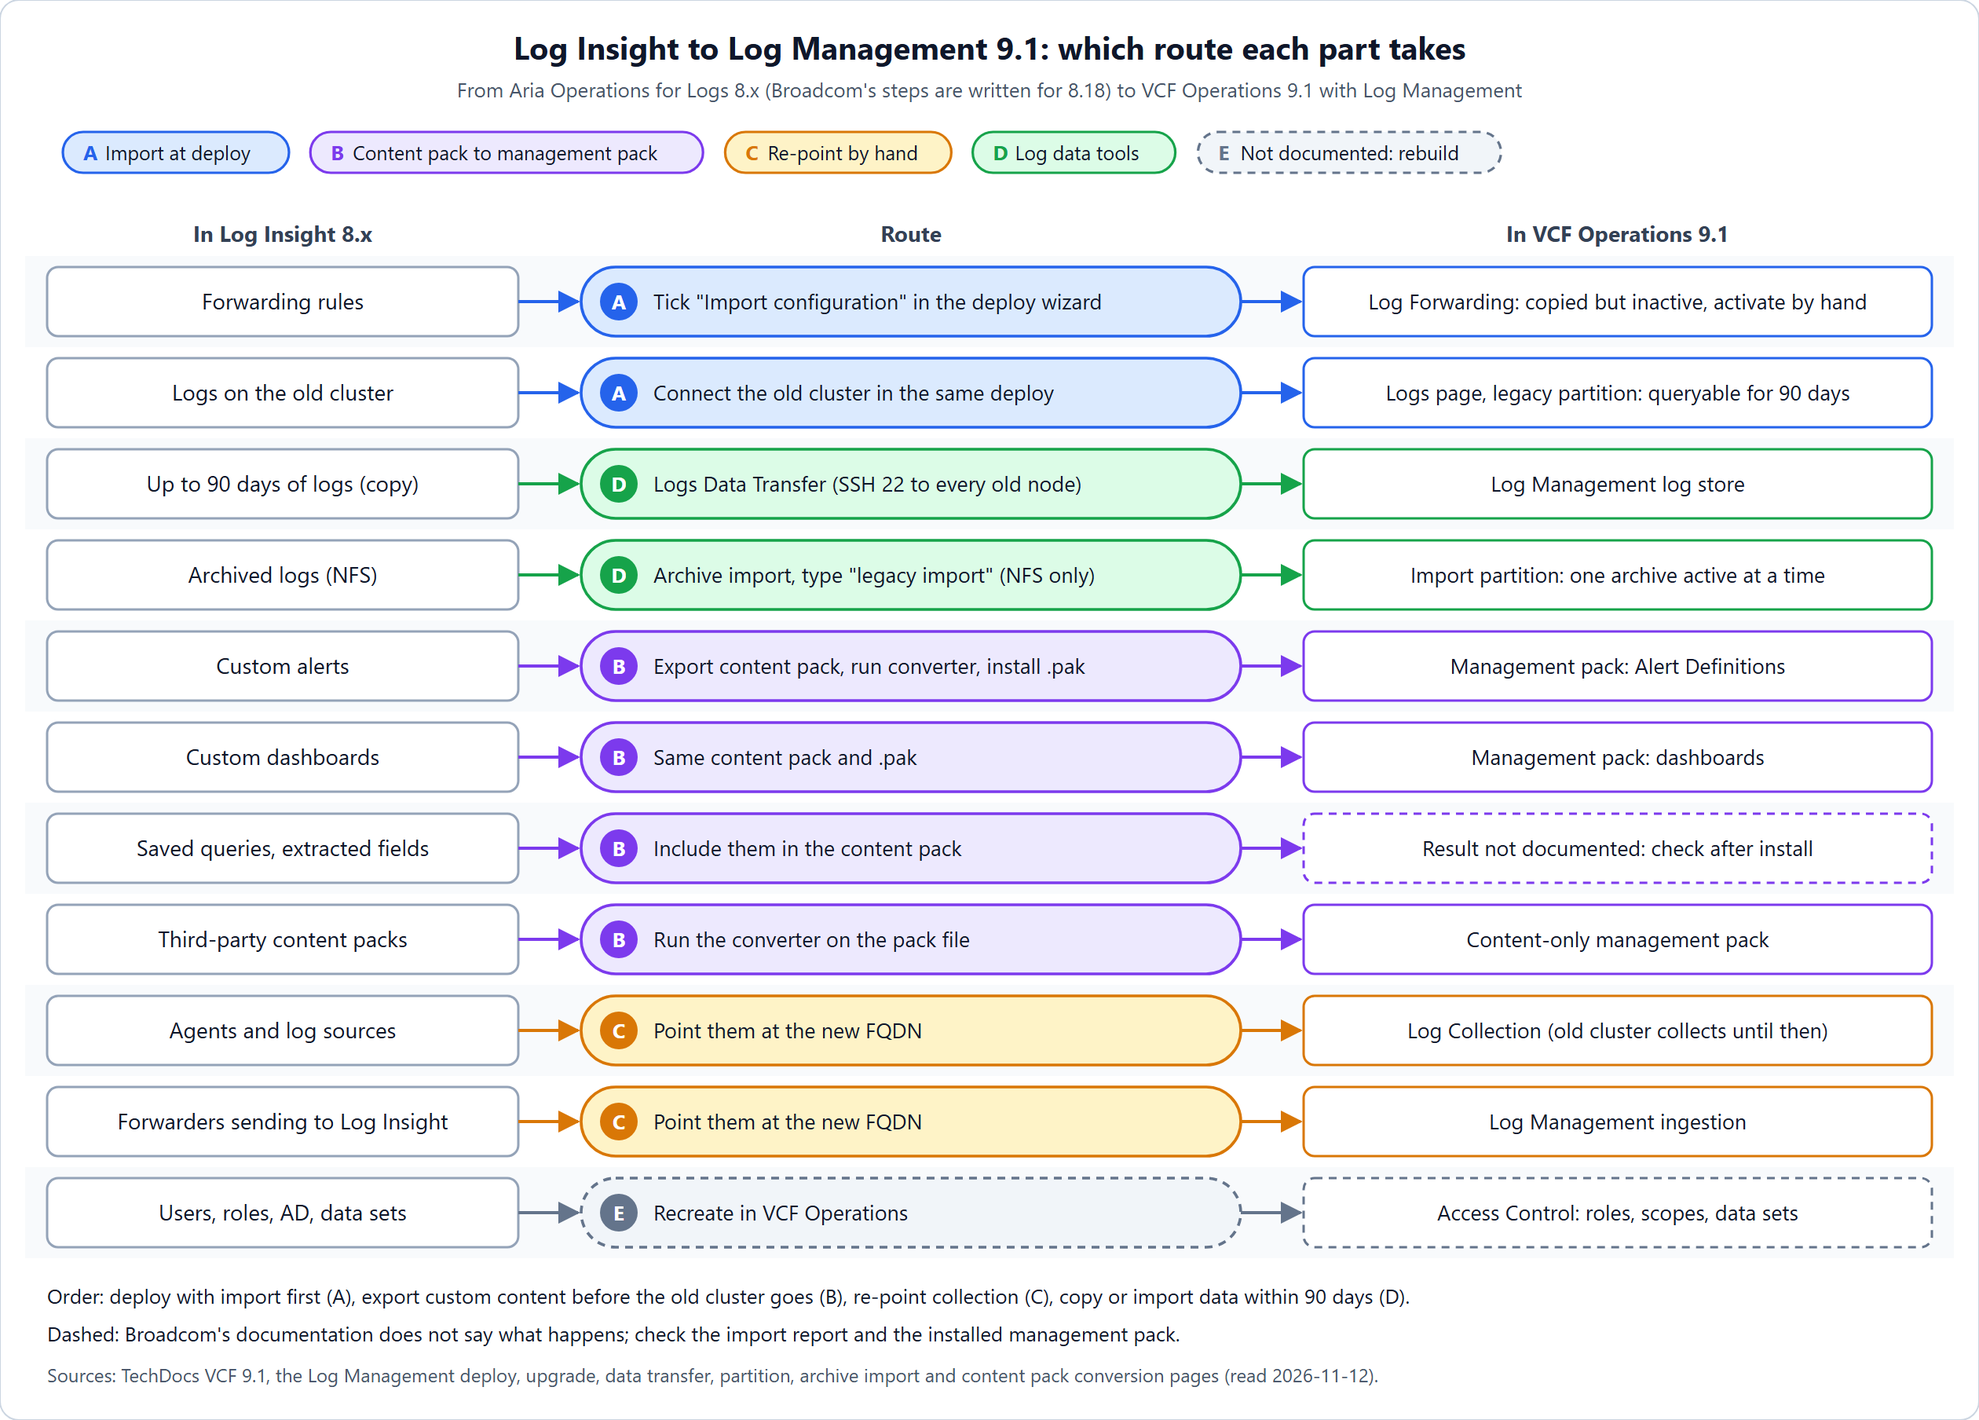
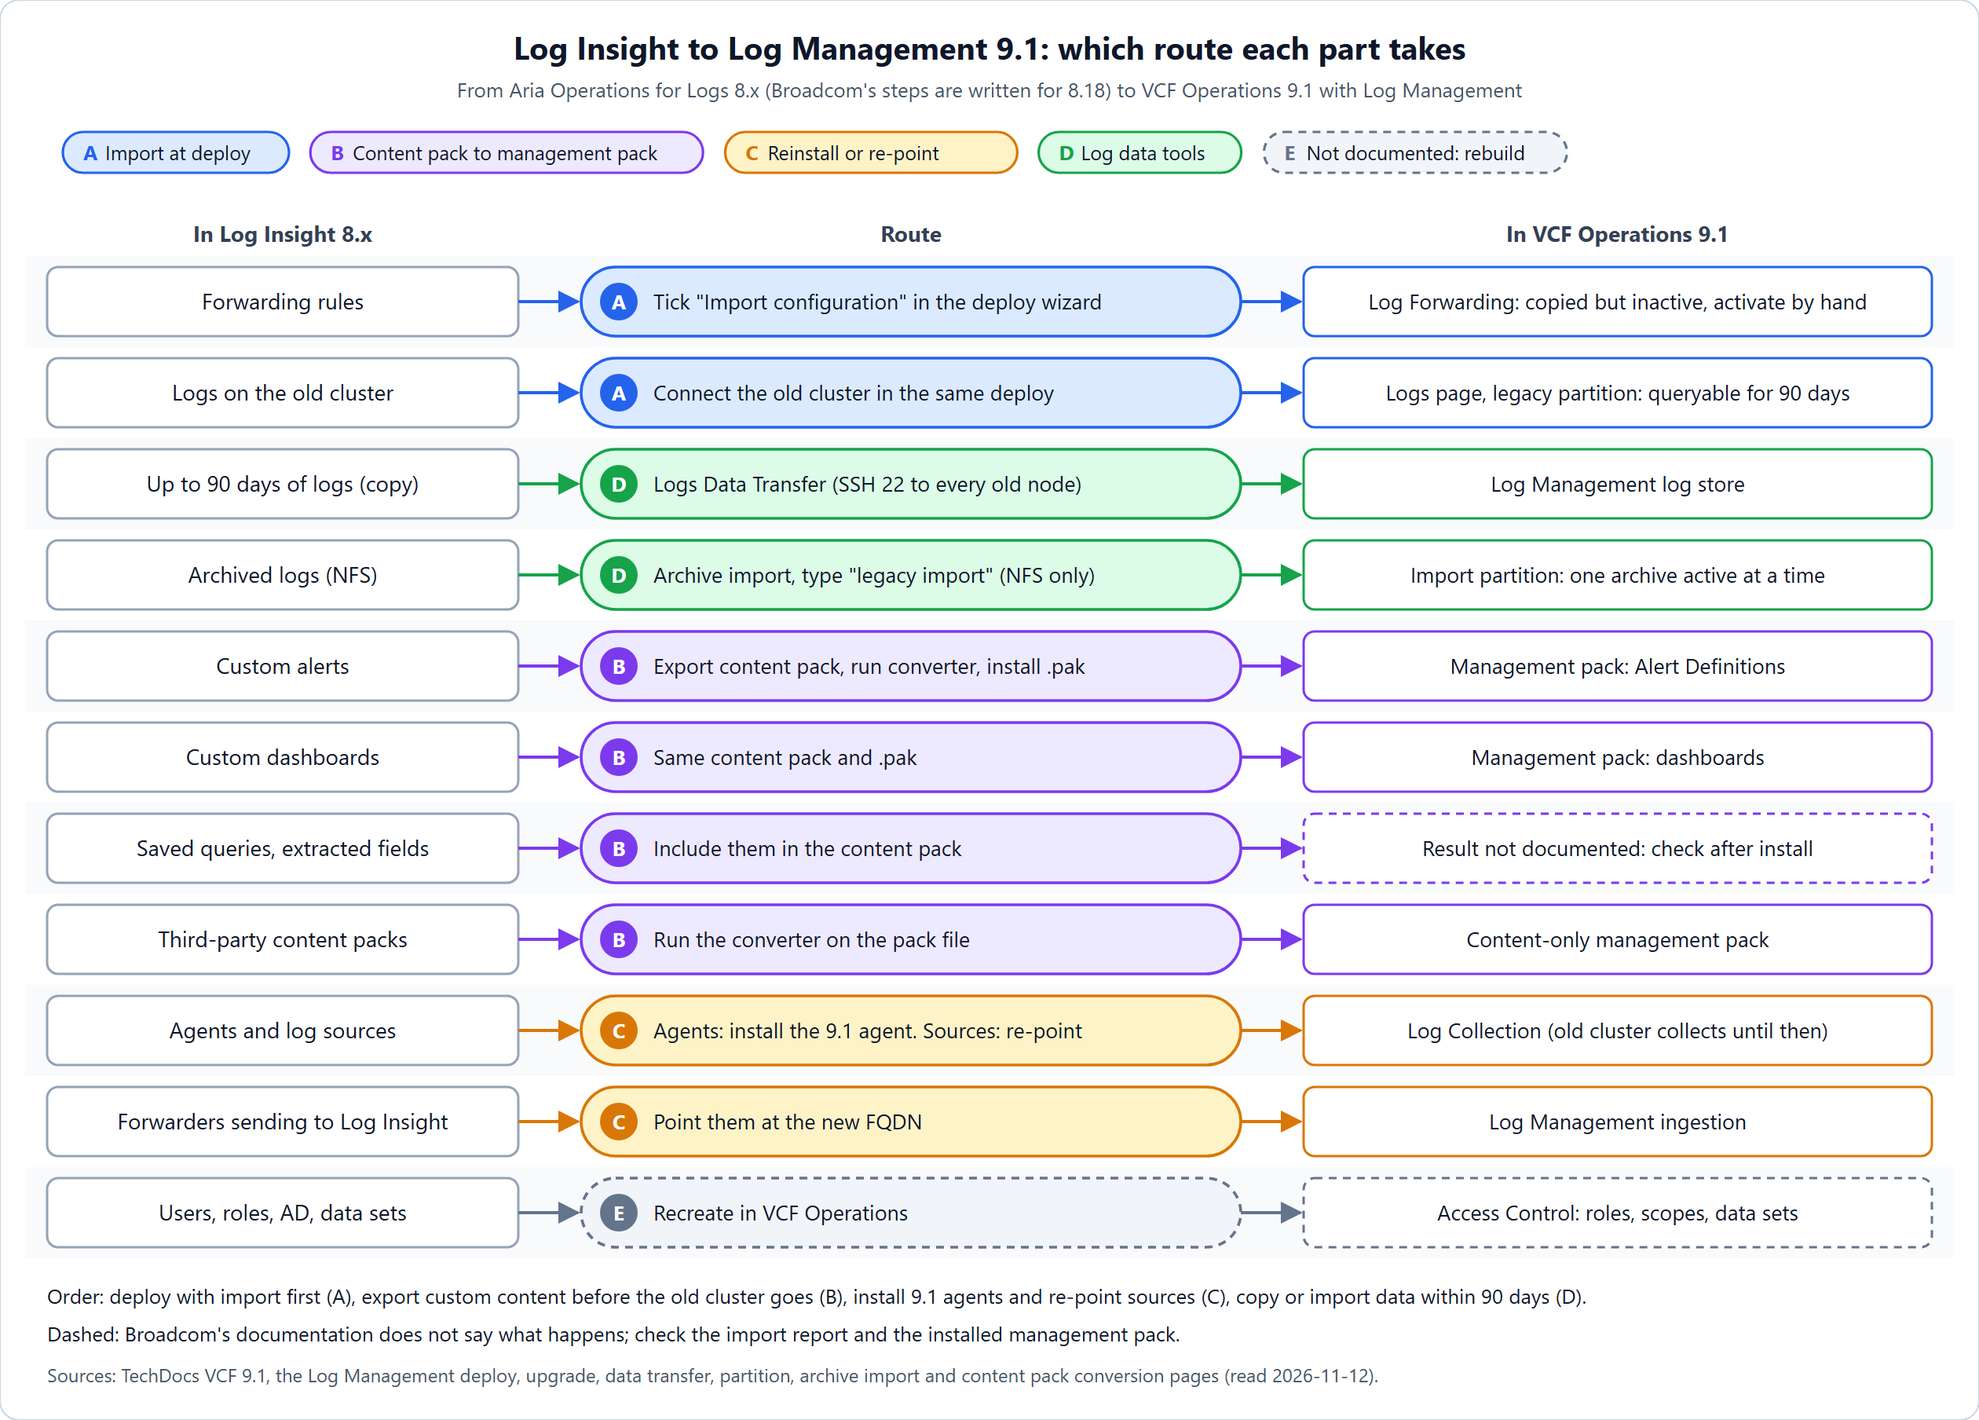
docs/28: install the 9.1 agent by default, re-point only as a fallback (#131)
Route C is now "Reinstall or re-point". Route C opens with why (agent
authentication needs 9.1, 8.x agent trusts the old certificate, 8.x against
Log Management 9.1 not documented). Linux step 2 leads with installing the
9.1 agent. Added KB 402647 (8.18 agent backwards compatible with 9.0.x only)
and KB 433089 (vCenter 9.1 ships its own agent and deletes a self-installed
one). Route diagram, docs/11, nav blurb and README follow. v2.7.0.

Closes #131

Changed region(s): [[0.4333, 0.8982, 0.8048, 0.9292], [0.4024, 0.0929, 0.7738, 0.1239], [0.3405, 0.7124, 0.5262, 0.7434]]

diff --git a/web/src/nav.ts b/web/src/nav.ts
@@ -310,7 +310,7 @@ export const NAV: NavItem[] = [
     band: 'Phase guides',
     label: 'Log Insight to Log Management',
     icon: 'route',
-    blurb: 'Log Insight / Aria Operations for Logs 8.x to Log Management 9.1, part by part: what the import brings, converting alerts and dashboards to management packs, re-pointing agents, old log data, and what you rebuild yourself.',
+    blurb: 'Log Insight / Aria Operations for Logs 8.x to Log Management 9.1, part by part: what the import brings, converting alerts and dashboards to management packs, replacing agents with the 9.1 agent, old log data, and what you rebuild yourself.',
     tracks: ['vcf', 'vvf'],
   },
   {

diff --git a/docs/28-log-insight-to-log-management.md b/docs/28-log-insight-to-log-management.md
@@ -21,13 +21,13 @@ Operations for Logs 8.x to log management 9.1 exists"*. You deploy Log
 Management 9.1 from VCF Operations next to the old cluster and move things
 over along five routes:
 
-![Log Insight to Log Management 9.1: eleven parts of a Log Insight instance, each with its route and where it ends up in VCF Operations 9.1. A, import at deploy: forwarding rules (copied but inactive) and the link to the old cluster (queryable for 90 days). D, log data tools: Logs Data Transfer for up to 90 days of logs, archive import from NFS. B, content pack to management pack: custom alerts, dashboards, third-party content packs, and saved queries and extracted fields (result not documented). C, re-point by hand: agents, log sources and upstream forwarders. E, not documented: users, roles, AD and data sets are recreated in VCF Operations Access Control.](images/log-insight-migration/routes.png)
+![Log Insight to Log Management 9.1: eleven parts of a Log Insight instance, each with its route and where it ends up in VCF Operations 9.1. A, import at deploy: forwarding rules (copied but inactive) and the link to the old cluster (queryable for 90 days). D, log data tools: Logs Data Transfer for up to 90 days of logs, archive import from NFS. B, content pack to management pack: custom alerts, dashboards, third-party content packs, and saved queries and extracted fields (result not documented). C, reinstall or re-point by hand: agents get the 9.1 agent, log sources and upstream forwarders are pointed at the new FQDN. E, not documented: users, roles, AD and data sets are recreated in VCF Operations Access Control.](images/log-insight-migration/routes.png)
 
 | Route | What it is | Covers |
 | --- | --- | --- |
 | **A** Import at deploy | A checkbox in the Log Management deploy wizard | Forwarding rules; the link to the old cluster |
 | **B** Content pack to management pack | Export from Log Insight, convert with Broadcom's converter, install the `.pak` in VCF Operations | Alerts, dashboards, other custom and third-party content |
-| **C** Re-point by hand | Change the target on each sender | Agents, log sources, forwarders that send to Log Insight |
+| **C** Reinstall or re-point by hand | Install the 9.1 agent where you can; change the target on every other sender | Agents, log sources, forwarders that send to Log Insight |
 | **D** Log data tools | Query, copy or re-import old log data | Logs on the old cluster, archives |
 | **E** Not documented | Rebuild it in VCF Operations | Users, roles, authentication, data sets, notifications |
 
@@ -47,7 +47,7 @@ over along five routes:
 | Saved queries, extracted fields | B | Include them in the content pack. For alerts, select them *"along with their associated extracted fields"* | **Not documented.** Broadcom names *"dashboards, queries, alerts"* as custom content that goes this way, but lists only dashboards, alerts and symptom definitions in the result. Check after install. 9.1 has its own Fields Library with export/import between VCF Operations instances |
 | Third-party content packs | B | Run the converter on the pack file | A *"content-only management pack"* (no metrics) |
 | VMware content packs | – | Nothing to move: *"Content packs have been deprecated in VCF Operations 9.1 and they have been replaced with the content integrated into management packs"* ([KB 443089](https://knowledge.broadcom.com/external/article/443089)) | Built-in management pack content |
-| Agents | C | Re-point to the new FQDN. From 8.18 this is manual; the old cluster keeps collecting until you do | Log Collection. Agent authentication needs *"agent version 9.1 or higher"* |
+| Agents | C | **Install the 9.1 agent** and point it at the new FQDN. Re-pointing the 8.x agent is only the fallback for an OS the 9.1 agent doesn't support ([Route C](#route-c-the-agents)). From 8.18 this is manual; the old cluster keeps collecting until you do | Log Collection. Agent authentication needs *"agent version 9.1 or higher"* |
 | Log sources (vCenter, ESX, NSX and so on) | C | *"Reconfigure required log sources to point to your new instance"* | Log Collection |
 | Forwarders that send *to* Log Insight | C | *"you must reconfigure the log forwarder to send logs to the new 9.1 log management component FQDN"* | Log Management ingestion |
 | Users, roles, AD / VIDM login | E | **Not documented** for a Log Insight import. Recreate them in VCF Operations | Log access is *"converged into the VCF Operations role based access control"*: Access Control → Roles, Scopes |
@@ -83,9 +83,9 @@ anything.
 4. **Export custom content while the old cluster is still there (B).**
    Do this before you power anything off: once the old cluster is gone,
    there's nothing to export from.
-5. **Re-point collection (C).** Agents (see
-   [Route C: the agents](#route-c-the-agents)), log sources, and anything
-   that forwards into Log Insight. Then activate the copied forwarding
+5. **Move collection (C).** Replace the agents with the 9.1 agent (see
+   [Route C: the agents](#route-c-the-agents)), then re-point log sources
+   and anything that forwards into Log Insight. Then activate the copied forwarding
    rules (A).
 6. **Move the log data you need (D), within 90 days.**
    - **Logs Data Transfer** copies up to 90 days. *"All source nodes of
@@ -150,9 +150,26 @@ and
 The import doesn't touch the agents. From 8.18, *"you must manually
 reconfigure the agents and log sources"*, and until you do, *"legacy
 appliances continue collecting data"*. That gives you room to move them in
-batches without a gap. What you do with each agent depends on what it runs
-on, because the 9.1 agent supports far fewer platforms than the Log Insight
-agent did. Installing a new agent from scratch (download, `rpm -i` /
+batches without a gap.
+
+**Plan on reinstalling, not re-pointing.** For most agents the move means
+installing the 9.1 agent, not editing the old one:
+
+- Agent authentication needs agent *"version 9.1 or higher"*, so an 8.x
+  agent can never send a token ([step 5](#5-enforce-authentication-last-if-at-all)).
+- An 8.x agent trusts Log Insight's certificate, not the new one
+  ([step 2](#2-linux-install-the-91-agent-re-point-only-as-a-fallback)).
+- Broadcom doesn't say an 8.x agent is supported against Log Management
+  9.1, or that it auto-updates to 9.1 once it points there. The closest
+  statement is about **9.0**: KB 402647 calls the 8.18.x Windows agent
+  *"backwards compatible"* with VCF Operations for Logs 9.0.x, adds that it
+  *"will not be able to automatically trust"* the 9.0.x server, and for
+  9.1.x points to the Fluent Bit MSI instead.
+
+Re-pointing the existing agent is the fallback for a host whose OS the 9.1
+agent doesn't support, and a reason to plan that OS upgrade. What you do
+with each agent depends on what it runs on, because the 9.1 agent supports
+far fewer platforms than the Log Insight agent did. Installing a new agent from scratch (download, `rpm -i` /
 `dpkg -i`, secrets) is covered in the deployment-planning guide,
 [Log Management §4](https://vcf-planning.hollebollevsan.nl/docs/31-log-management/).
 This section is about the move.
@@ -165,16 +182,24 @@ agent version, agent group). Then put every agent in one of these groups:
 | Agent runs on | 9.1 agent? | What to do |
 | --- | --- | --- |
 | **Linux, supported OS:** RHEL 9/10, SLES 15 SP7/16, Ubuntu 22.04/24.04/26.04 LTS, Debian 12/13, Photon 4.0+, with OpenSSL 3.0+ and systemd 235+ | Yes | Install the 9.1 agent (RPM or Debian package via Log Collection → Agent → DOWNLOAD AGENT) and point it at Log Management |
-| **Linux, older OS** (for example RHEL 8, Ubuntu 20.04, SLES 12) | **No.** Not on the 9.1 list | **Not documented.** Options: re-point the existing 8.x agent and test it, send syslog, or use a third-party shipper such as Fluent Bit. Plan the OS upgrade |
+| **Linux, older OS** (for example RHEL 8, Ubuntu 20.04, SLES 12) | **No.** Not on the 9.1 list | **Not documented.** Options until the OS is upgraded: re-point the existing 8.x agent and test it ([step 2](#2-linux-install-the-91-agent-re-point-only-as-a-fallback)), send syslog, or use a third-party shipper such as Fluent Bit. Plan the OS upgrade, then install the 9.1 agent |
 | **Windows Server 2022 / 2025** | **No native agent** in 9.1: *"For windows systems, see, Set up the Windows system to collect logs"* | Replace the Log Insight Windows agent with **Fluent Bit** ([step 3](#3-windows-fluent-bit-replaces-the-agent)) |
 | **Windows Server 2019 or older** | No | **Not documented.** Fluent Bit is documented for 2022 and 2025 only |
 | **VCF components with an embedded agent** (shown as *VCF Component = yes*) | Built in | Leave them. *"These agents are not configurable"*; they follow the log source configuration in VCF Operations |
-| **Agents you installed on VMware products yourself** (vCenter per KB 371900, SDDC Manager per KB 396643) | Depends on the appliance | Check first whether VCF Operations now collects that product as a log source. If so, remove your own agent so logs don't arrive twice. SDDC Manager on VCF still needs the script: see [planning guide `05` §B.6](https://vcf-planning.hollebollevsan.nl/docs/05-day2-deployments/) |
+| **Agents you installed on VMware products yourself** (vCenter per KB 371900, SDDC Manager per KB 396643) | Depends on the appliance | Check first whether VCF Operations now collects that product as a log source. If so, remove your own agent so logs don't arrive twice. **vCenter 9.1** does this for you: it *"ships with the Log Insight Agent"*, and the upgrade to 9.1 deletes a previously installed agent, its configuration and any syslog targets (KB 433089); enable vCenter log collection in Log Management instead. SDDC Manager on VCF still needs the script: see [planning guide `05` §B.6](https://vcf-planning.hollebollevsan.nl/docs/05-day2-deployments/) |
 
-### 2. Re-point a Linux agent
+### 2. Linux: install the 9.1 agent, re-point only as a fallback
 
-On a supported OS, installing the 9.1 agent is the clean route. For an 8.x
-agent you keep, change the target in `/etc/liagent.ini` under `[server]`.
+On a supported OS, install the 9.1 agent: download the RPM or Debian
+package from Log Collection → Agent → DOWNLOAD AGENT, set the Log
+Management FQDN (and a `secret` if you'll use authentication), and remove
+the old Log Insight agent so the host doesn't run two. Do this host by
+host or in batches; the old cluster keeps collecting from the hosts you
+haven't done yet.
+
+**Fallback: re-point the 8.x agent.** Only for a host whose OS the 9.1
+agent doesn't support, and only after testing it against Log Management.
+Change the target in `/etc/liagent.ini` under `[server]`.
 These are the settings Broadcom uses in its 8.x KBs (371900, 386897); the
 9.1 pages show `hostname`, `proto=cfapi` and `secret`:
 
@@ -287,9 +312,13 @@ tokens for third-party shippers, and only then enforce authentication.
   transfers."*
 - **Agent authentication is new and optional.** Enforce it only after
   every agent has moved and can send a token; see
-  [step 5 of Route C](#5-enforce-authentication-last-if-at-all). Whether
-  an 8.x agent works against Log Management at all isn't stated; Broadcom
-  only says to re-point the agents.
+  [step 5 of Route C](#5-enforce-authentication-last-if-at-all).
+- **Re-pointing an agent is the exception, not the plan.** Broadcom only
+  says to *"reconfigure the agents"*; whether an 8.x agent works against
+  Log Management 9.1 isn't stated (only 9.0 has a *"backwards compatible"*
+  line, KB 402647), and it can't authenticate. Install
+  the 9.1 agent wherever the OS allows it, and keep the re-pointed 8.x
+  agents on a list until their OS is upgraded.
 - **Scopes don't limit logs.** *"Object Scopes and Log Data Sets are
   independent"*. Giving a user Cluster A doesn't limit their logs to
   Cluster A; only the Log Data Set does.
@@ -326,3 +355,14 @@ TechDocs for VCF 9.1, all read word for word on 2026-11-12:
 - [KB 386897](https://knowledge.broadcom.com/external/article/386897/update-aria-operations-for-logs-agents-t.html)
   and [KB 371900](https://knowledge.broadcom.com/external/article/371900/install-and-configure-aria-operations-fo.html):
   Log Insight 8.x agent settings and certificate trust
+
+Re-read word for word on 2026-11-16: the upgrade page's post-upgrade
+actions, Overview of Log Management Agents, Agent Authentication and
+Configuring Agents (no change), plus:
+
+- [KB 402647](https://knowledge.broadcom.com/external/article/402647/the-windows-agent-is-not-available-to-do.html):
+  8.18.x Windows agent backwards compatible with 9.0.x, no automatic trust,
+  Fluent Bit from 9.1.x
+- [KB 433089](https://knowledge.broadcom.com/external/article/433089/known-issues-and-limitations-for-log-col.html):
+  vCenter 9.1 ships the agent and removes a previously installed one on
+  upgrade

diff --git a/README.md b/README.md
@@ -117,7 +117,7 @@ the two track sequences above also sit in this band):
 | `docs/26-aria-automation-to-vcf-automation-upgrade.md` | Aria Automation 8.18.x to VCF Automation 9.1.1 (Phase 4): prerequisites and blockers, import and blue-green upgrade, tenants mapped to VM Apps organizations, upgrading an external Orchestrator after Automation, known issues, open questions for Broadcom Support | **VCF only**, if Aria Automation is in use |
 | `docs/10-nsx-edge-finalize.md` | NSX Edge cluster upgrade and NSX finalize (replaces the plain Phase 8), after the host phase | VCF or VVF, if NSX is in use |
 | `docs/11-log-management-migration.md` | VCF Operations for Logs migration to Log Management 9.1, after NSX finalize | VCF or VVF |
-| `docs/28-log-insight-to-log-management.md` | Log Insight (Aria Operations for Logs 8.x) to Log Management 9.1, part by part: configuration import, content pack to management pack conversion, re-pointing agents and sources, log data tools, and what isn't documented; with a route diagram | VCF or VVF |
+| `docs/28-log-insight-to-log-management.md` | Log Insight (Aria Operations for Logs 8.x) to Log Management 9.1, part by part: configuration import, content pack to management pack conversion, replacing agents with the 9.1 agent and re-pointing sources, log data tools, and what isn't documented; with a route diagram | VCF or VVF |
 
 **Post-upgrade & Day 2:**
 

diff --git a/CHANGELOG.md b/CHANGELOG.md
@@ -1,5 +1,18 @@
 # Changelog
 
+## v2.7.0 – 2026-11-16
+- `docs/28` agents (#131, Paul): installing the 9.1 agent is now the
+  default route, re-pointing the 8.x agent only the fallback for an OS the
+  9.1 agent doesn't support. Route C is *Reinstall or re-point*; Route C
+  opens with why (agent authentication needs 9.1, the 8.x agent trusts the
+  old certificate, 8.x against Log Management and auto-update to 9.1 are
+  not documented); step 2 is now *Linux: install the 9.1 agent, re-point
+  only as a fallback*; order of work, gotchas and the route diagram follow.
+  `docs/11`, the nav blurb and `README.md` say the same. Sources re-read
+  on 2026-11-16; added KB 402647 (8.18.x Windows agent *"backwards
+  compatible"* with 9.0.x only, no automatic trust) and KB 433089 (vCenter
+  9.1 ships its own agent and deletes a self-installed one on upgrade).
+
 ## v2.6.9 – 2026-11-13
 - `docs/35` case A (#127, Paul): an L2 stretch between the sites that is
   the data centers' standard design (DCI, EVPN/VXLAN fabric, anycast

diff --git a/docs/11-log-management-migration.md b/docs/11-log-management-migration.md
@@ -24,7 +24,9 @@ and is deployed from **VCF Operations**, not upgraded in place.
 - **From 8.x (VCF 5.x source):** no direct upgrade path. Deploy 9.1 fresh
   from VCF Operations and tick **Import configuration from an earlier
   Operations for logs instance** in the wizard – it takes an 8.x
-  configuration. Agents and log sources are then re-pointed by hand.
+  configuration. Agents are then replaced by the 9.1 agent in most
+  cases (re-pointing the 8.x agent is the fallback for an OS the 9.1
+  agent doesn't support), and log sources are re-pointed by hand.
   What goes which way, part by part, is in
   [Log Insight to Log Management](28-log-insight-to-log-management.md).
 
